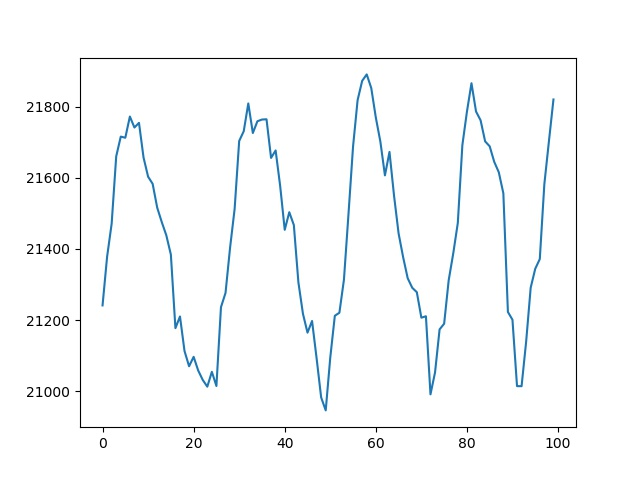
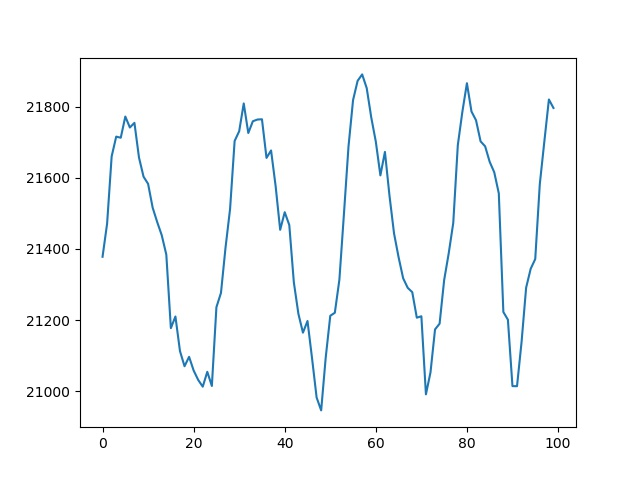
'auto'

diff --git a/README.md b/README.md
@@ -1,5 +1,5 @@
 Frizider live: 8
-21820.016666666666 
+21796.141666666666 
 0
 Temperatura:
 
